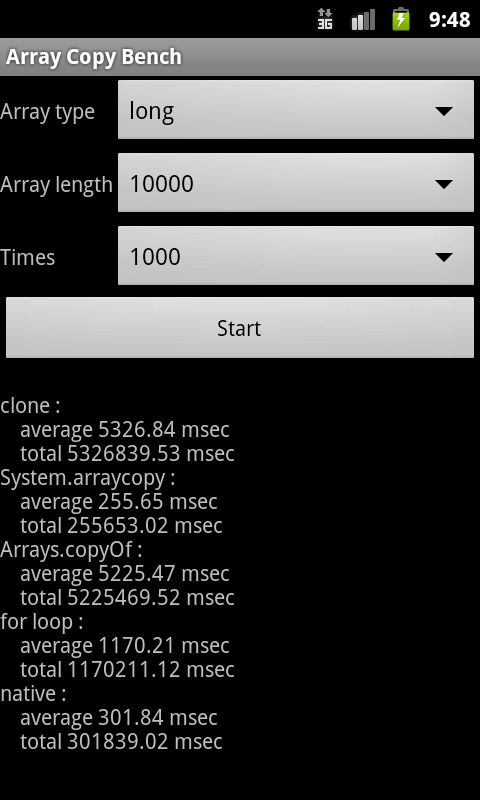
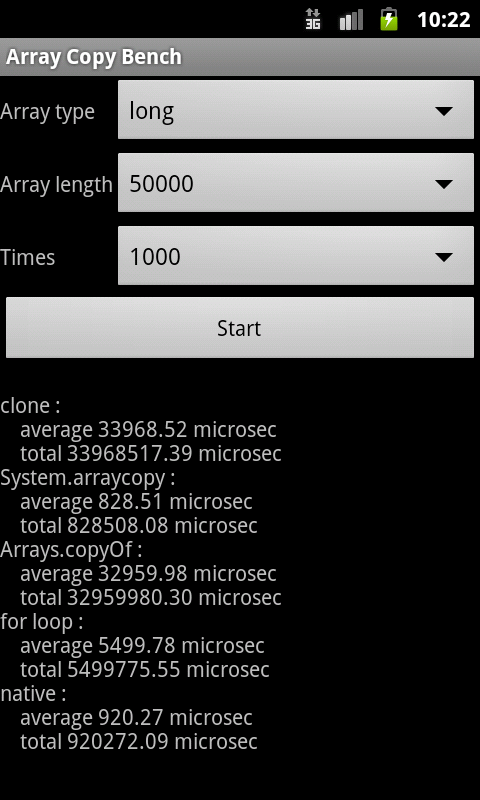
Fix displaied unit. msec -> microsec.

diff --git a/ArrayCopyBenchForAndroid/src/com/uraroji/garage/android/arrraycopybench/MainActivity.java b/ArrayCopyBenchForAndroid/src/com/uraroji/garage/android/arrraycopybench/MainActivity.java
@@ -344,10 +344,10 @@ public class MainActivity extends Activity {
                         + title + " :\n");
                 mResultTextView.setText(mResultTextView.getText()
                         + "\taverage " + String.format("%.2f", benchResult.average() / 1000d)
-                        + " msec\n");
+                        + " microsec\n");
                 mResultTextView.setText(mResultTextView.getText()
                         + "\ttotal "
-                        + String.format("%.2f", benchResult.total() / 1000d) + " msec\n");
+                        + String.format("%.2f", benchResult.total() / 1000d) + " microsec\n");
             }
         });
     }
